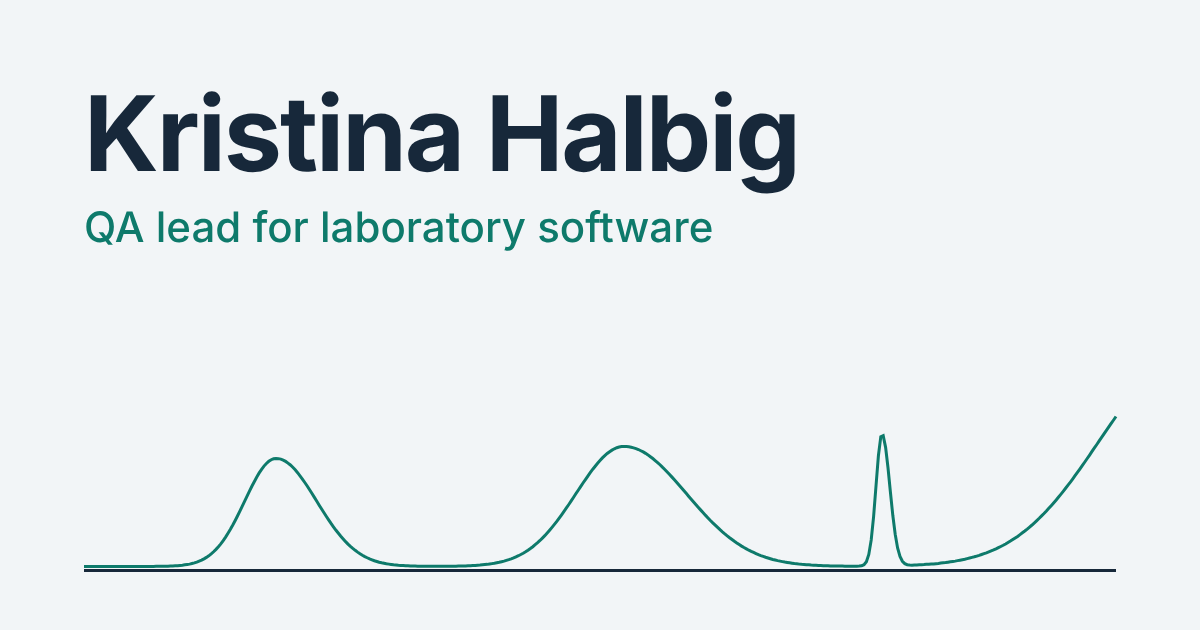
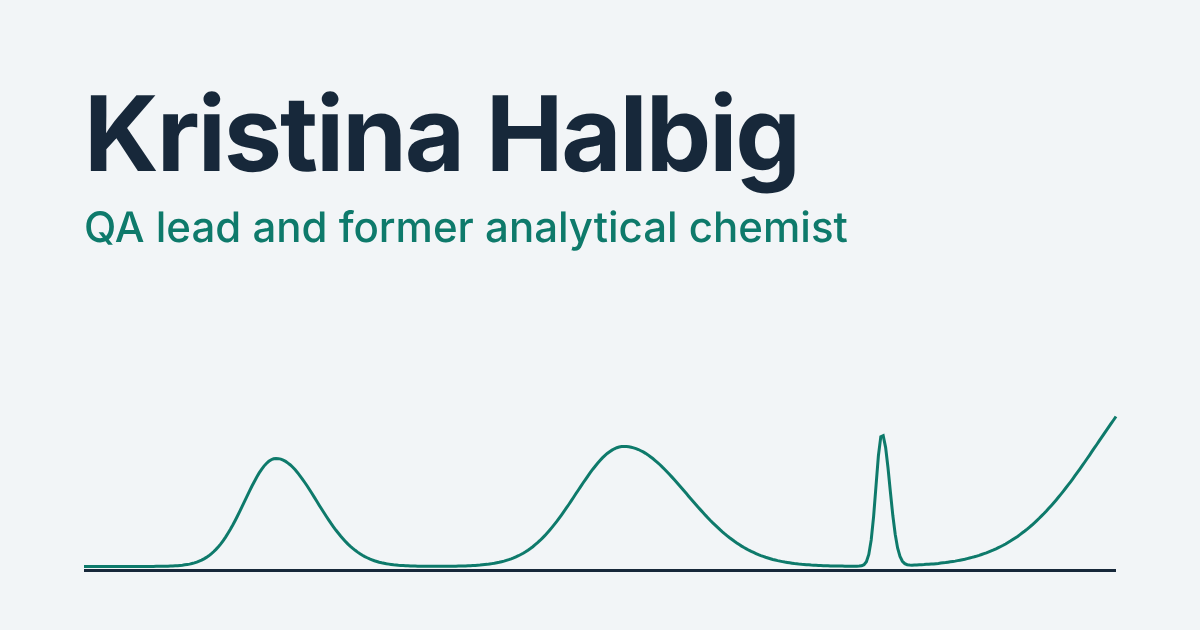
Second review pass: tighten SynapticSci section, broaden positioning
- Header and previews now 'QA lead'; What I do leads with transferable QA skills
- SynapticSci: one summary and six non-overlapping bullets; drop weak numbers row
- Dashboard mock-up sample data now adds up
- Encore LIMS bullet no longer conflicts with the 10,000 figure
- Earlier work trimmed to scraper, recommender and Hack for LA

Claude-Session: https://claude.ai/code/session_01WQVKrNCjTE4ZVQk22ag99T

Changed region(s): [[0.2158, 0.3317, 0.7092, 0.3921]]

diff --git a/index.html b/index.html
@@ -3,18 +3,18 @@
 <head>
   <meta charset="utf-8" />
   <meta name="viewport" content="width=device-width, initial-scale=1" />
-  <title>Kristina Halbig | QA Lead, Laboratory Software</title>
+  <title>Kristina Halbig | QA Lead</title>
   <meta name="author" content="Kristina Halbig" />
-  <meta name="description" content="QA lead for laboratory software, with nearly ten years as an analytical chemist. Test strategy, release readiness, Power Apps and Azure DevOps." />
+  <meta name="description" content="QA lead and former analytical chemist. Test strategy, release sign-off, bug process and QA tracking in Azure DevOps." />
 
   <meta property="og:type" content="website" />
   <meta property="og:url" content="https://fragariachemist.github.io/" />
-  <meta property="og:title" content="Kristina Halbig, QA Lead for Laboratory Software" />
-  <meta property="og:description" content="Former analytical chemist who now leads QA for laboratory informatics software: test strategy, release readiness, Power Apps and Azure DevOps." />
+  <meta property="og:title" content="Kristina Halbig, QA Lead" />
+  <meta property="og:description" content="QA lead and former analytical chemist: test strategy, release sign-off, bug process and QA tracking in Azure DevOps." />
   <meta property="og:image" content="https://fragariachemist.github.io/assets/img/og-card.png" />
   <meta property="og:image:width" content="1200" />
   <meta property="og:image:height" content="630" />
-  <meta property="og:image:alt" content="Kristina Halbig, QA lead for laboratory software" />
+  <meta property="og:image:alt" content="Kristina Halbig, QA lead" />
   <meta name="twitter:card" content="summary_large_image" />
 
   <link rel="icon" type="image/png" sizes="32x32" href="/assets/img/favicon/favicon-32x32.png" />
@@ -44,11 +44,11 @@
     <section class="hero" id="top">
       <div class="wrap">
         <h1>Kristina Halbig</h1>
-        <p class="role">QA lead for laboratory software</p>
+        <p class="role">QA lead</p>
         <p class="lede">
           I spent nearly ten years running instruments and signing off on results as an analytical chemist.
-          Now I lead QA for laboratory informatics software built on Power Apps, testing the workflows that carry
-          a sample from login to final report. I know what breaks on the bench, so I know what to look for in the software.
+          Now I lead QA for a software team: I set the test strategy, run the testing, keep bugs moving and make the
+          release call. Years of checking results that had to be right made me the tester who notices what doesn't add up.
         </p>
         <p class="hero-links">
           <a class="btn" href="mailto:kristinadhalbig@gmail.com">Email me</a>
@@ -83,20 +83,20 @@
         <h2>What I do</h2>
         <dl class="focus">
           <div>
-            <dt>Release readiness for lab software</dt>
-            <dd>Test strategy and the final QA call on releases of laboratory informatics platforms, checked against how samples, results and approvals actually move through a lab.</dd>
+            <dt>Test strategy and release sign-off</dt>
+            <dd>Deciding what needs testing, how deep to go, and whether a release is ready, based on how people actually use the software.</dd>
           </div>
           <div>
-            <dt>Power Apps and Dataverse</dt>
-            <dd>Functional, usability and data testing of Power Apps and the Dataverse data behind them, including permissions, data entry edge cases and regressions.</dd>
+            <dt>Functional and data testing</dt>
+            <dd>Functional, usability and regression testing, plus checking the data underneath. Most of my current work is in Power Apps and Dataverse.</dd>
           </div>
           <div>
-            <dt>QA process that developers use</dt>
-            <dd>Structured test suites in Azure DevOps, bug reports developers can reproduce, and a clear handoff for when work is ready to test.</dd>
+            <dt>A QA process developers follow</dt>
+            <dd>Structured test suites, bug reports developers can reproduce, a clear handoff for when work is ready to test, and tracking so nothing gets lost.</dd>
           </div>
           <div>
             <dt>Quality in regulated labs</dt>
-            <dd>SOPs, audits, ISO 17025 and data integrity. I worked under these rules as a chemist, so I know what regulated labs need from their software and test for it.</dd>
+            <dd>SOPs, audits, ISO 17025 and data integrity. I worked under these rules as a chemist, so I know what regulated labs need from their software and test for it. It's my edge on lab software.</dd>
           </div>
         </dl>
       </div>
@@ -112,21 +112,13 @@
             <p class="job-meta">SynapticSci, Philadelphia, PA, March 2025 to present</p>
           </header>
           <div class="job-body">
-            <p class="job-summary">I lead QA for SynapticSci's Power Apps-based laboratory informatics platforms, LabSci, DOTSci and VetSci, which support lab workflows across several product lines. I write the test cases, run the testing, groom testing tasks and bugs, and make the final QA call on releases.</p>
-
-            <dl class="stats">
-              <div><dt>15</dt><dd>developers working in the QA workflow I set up</dd></div>
-              <div><dt>3</dt><dd>products tested, LabSci, DOTSci and VetSci</dd></div>
-              <div><dt>5</dt><dd>brand-new features tested end to end</dd></div>
-            </dl>
-
+            <p class="job-summary">I lead QA for SynapticSci's Power Apps-based laboratory informatics platforms, LabSci, DOTSci and VetSci. I write the test cases, run the testing, and groom testing tasks and bugs.</p>
             <ul>
-              <li>Set up a company-wide QA workflow across three products: how developers flag work as ready to test, how bugs are logged and groomed, and how results come back.</li>
-              <li>Built a cross-project QA dashboard in Azure DevOps that tracks testing tasks and the bugs they produce across three projects, flagging unassigned work, high-priority items and anything open 14 days or more, so nothing goes stale because it was forgotten.</li>
+              <li>Own test strategy, release readiness and the final QA decision for releases across three products.</li>
+              <li>Set up the company-wide QA workflow 15 developers now use: how work is flagged as ready to test, how bugs are logged and groomed, and how results come back.</li>
+              <li>Built a QA dashboard in Azure DevOps that pulls testing tasks and bugs from three projects into one view, flagging unassigned, high-priority and 14-day-old work so nothing goes stale.</li>
               <li>Led testing for five brand-new features end to end, from first build through release.</li>
-              <li>Own test strategy, release readiness and the final QA decision for software releases.</li>
-              <li>Reorganized the Azure DevOps test area and wrote structured test suites covering lab workflows, new features, regression and edge cases.</li>
-              <li>Track down functional, usability and data issues in Power Apps and Dataverse, and write the QA documentation and standards that keep handoffs consistent.</li>
+              <li>Reorganized the Azure DevOps test area into structured suites for core workflows, new features, regression and edge cases, and wrote the QA documentation and standards behind them.</li>
               <li>Building automated tests with Playwright and Postman, using Claude to speed up test development.</li>
             </ul>
           </div>
@@ -135,7 +127,7 @@
         <figure class="hub" aria-labelledby="hub-cap">
           <figcaption id="hub-cap">
             <span class="hub-title">The cross-project QA dashboard I built in Azure DevOps</span>
-            <span class="hub-note">Recreated with sample data. Testing tasks and bugs live in three separate projects, so the dashboard pulls them into one view where nothing gets forgotten.</span>
+            <span class="hub-note">Recreated with sample data.</span>
           </figcaption>
           <div class="hub-board">
             <dl class="hub-tiles">
@@ -148,13 +140,13 @@
             </dl>
             <div class="hub-panels">
               <table class="hub-table">
-                <caption>Testing backlog, all projects</caption>
+                <caption>Testing backlog, all projects (4 of 7 shown)</caption>
                 <thead><tr><th scope="col">Task</th><th scope="col">Project</th><th scope="col">State</th></tr></thead>
                 <tbody>
                   <tr><td>Test report output for new method</td><td>Project A</td><td><span class="hub-state hub-wip">In progress</span></td></tr>
+                  <tr><td>Test new search filters</td><td>Project A</td><td><span class="hub-state">Not started</span></td></tr>
                   <tr><td>Retest calculation fix</td><td>Project B</td><td><span class="hub-state">Waiting on fix</span></td></tr>
-                  <tr><td>Regression pass before release</td><td>Project B</td><td><span class="hub-state">Waiting on fix</span></td></tr>
-                  <tr><td>Test label export format</td><td>Project C</td><td><span class="hub-state hub-done">Done</span></td></tr>
+                  <tr><td>Test new user permissions</td><td>Project C</td><td><span class="hub-state">Not started</span></td></tr>
                 </tbody>
               </table>
               <div class="hub-split" aria-label="Backlog by project: Project A 4, Project B 2, Project C 1">
@@ -172,7 +164,7 @@
             <p class="job-meta"><a href="https://www.encorelabs.com/">Encore Labs</a>, Pasadena, CA, 2018 to 2024</p>
           </header>
           <ul>
-            <li>Helped implement the QBench LIMS to automate upload and approval of results, cutting data errors from 15% to under 5% across more than 5,000 data points a day.</li>
+            <li>Helped implement the QBench LIMS to automate upload and approval of results, cutting data errors from 15% to under 5%.</li>
             <li>Reviewed and released results for roughly 10,000 data points a day for 270 clients.</li>
             <li>Trained analysts and supervisors on instruments and data review; department productivity rose 14%.</li>
           </ul>
@@ -217,7 +209,7 @@
             <p>Method validation, LC-MS, ISO 17025, SOP writing and audits, data integrity</p>
           </div>
           <div>
-            <h3>Data</h3>
+            <h3>Data, from my 2024 training</h3>
             <p>Python, SQL, pandas, Excel, Tableau</p>
           </div>
         </div>
@@ -228,8 +220,8 @@
       <div class="wrap">
         <h2>Earlier work</h2>
         <p class="section-intro">
-          Projects from my data science training in 2024. They're where I learned to script against APIs,
-          clean messy data, and check my own output, which carries over directly to testing.
+          Projects from my data science training and volunteering in 2024, where I learned to pull data from APIs,
+          clean it, and check my own output.
         </p>
         <ul class="projects">
           <li>
@@ -239,14 +231,6 @@
           <li>
             <h3><a href="https://github.com/FragariaChemist/ravelry_project">Knitting pattern recommender</a></h3>
             <p>Pulled 15,000 patterns from the Ravelry API and built a Streamlit app that suggests similar patterns.</p>
-          </li>
-          <li>
-            <h3><a href="https://github.com/FragariaChemist/api_chatbot">Multiple PDF chatbot</a></h3>
-            <p>A Streamlit app using LangChain and the OpenAI API to ask questions about uploaded PDFs.</p>
-          </li>
-          <li>
-            <h3><a href="https://github.com/FragariaChemist/airline_safety">Airline accident classifier</a></h3>
-            <p>Cleaned NTSB accident data with missing and inconsistent fields, then trained a model to predict budget airlines, tuned with grid search.</p>
           </li>
           <li>
             <h3><a href="https://www.hackforla.org/">Hack for LA, volunteer</a></h3>
